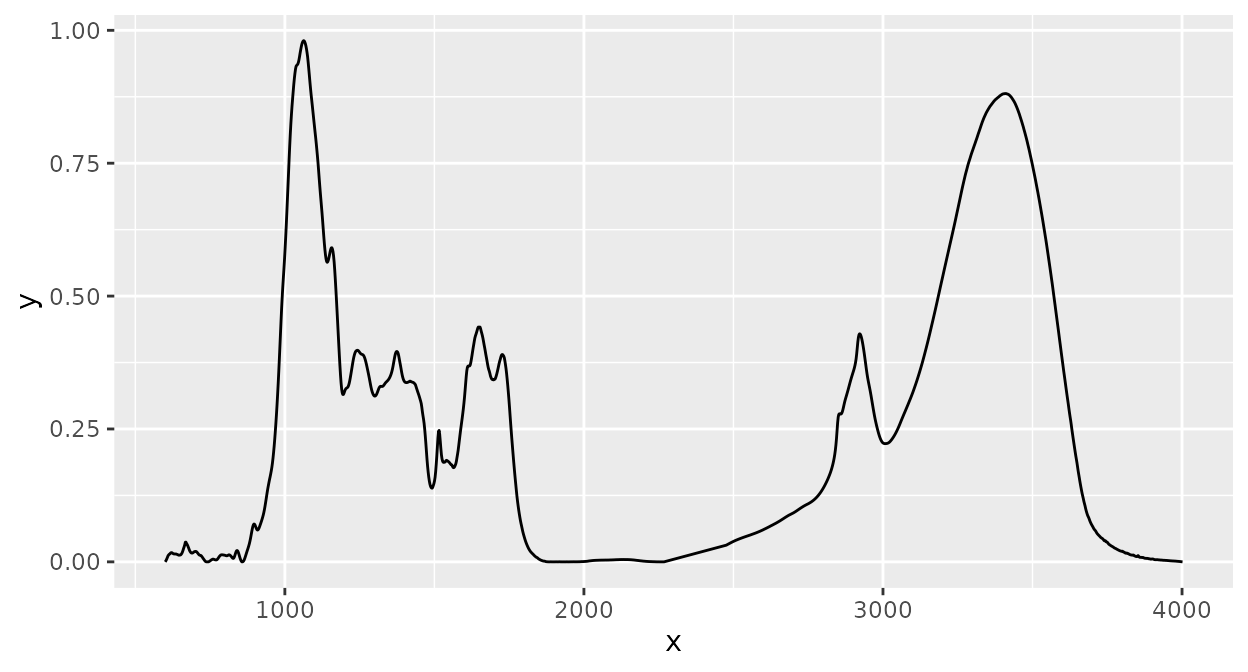
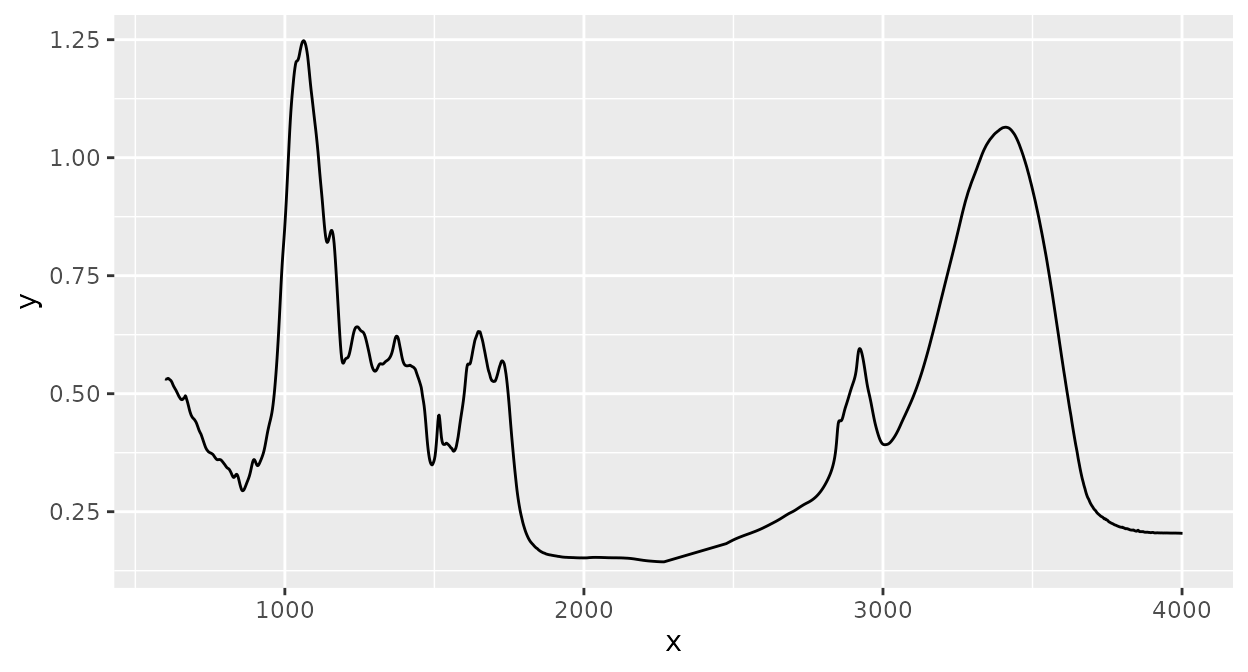
Deploying to gh-pages from @ henningte/ir@4289f9525e163f1281128f484a9310ca762aed4c 🚀

diff --git a/news/index.html b/news/index.html
@@ -41,6 +41,7 @@
     <div class="section level2">
 <h2 class="pkg-version" data-toc-text="0.4.2.9000" id="ir-0429000">ir 0.4.2.9000<a class="anchor" aria-label="anchor" href="#ir-0429000"></a></h2>
 <ul><li>Bug fix: Avoid removing names of elements in the <code>spectra</code> list column of <code>ir</code> objects (<a href="https://github.com/henningte/ir/issues/4" class="external-link">#4</a>).</li>
+<li>Bug fix: Avoid reversed <code>x</code> values in spectra when applying <code><a href="../reference/ir_bc_rubberband.html">ir_bc_rubberband()</a></code> to an <code>ir</code> object where spectra have decreasing <code>x</code> values (<a href="https://github.com/henningte/ir/issues/5" class="external-link">#5</a>).</li>
 </ul></div>
     <div class="section level2">
 <h2 class="pkg-version" data-toc-text="0.4.2" id="ir-042">ir 0.4.2<a class="anchor" aria-label="anchor" href="#ir-042"></a></h2><p class="text-muted">CRAN release: 2026-02-03</p>

diff --git a/news/index.md b/news/index.md
@@ -4,6 +4,10 @@
 
 - Bug fix: Avoid removing names of elements in the `spectra` list column
   of `ir` objects ([\#4](https://github.com/henningte/ir/issues/4)).
+- Bug fix: Avoid reversed `x` values in spectra when applying
+  [`ir_bc_rubberband()`](https://henningte.github.io/ir/reference/ir_bc_rubberband.md)
+  to an `ir` object where spectra have decreasing `x` values
+  ([\#5](https://github.com/henningte/ir/issues/5)).
 
 ## ir 0.4.2
 